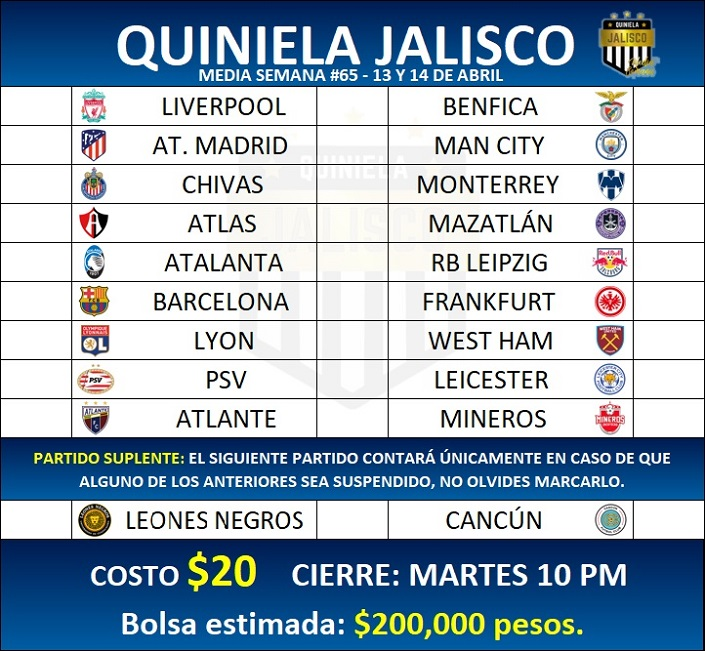
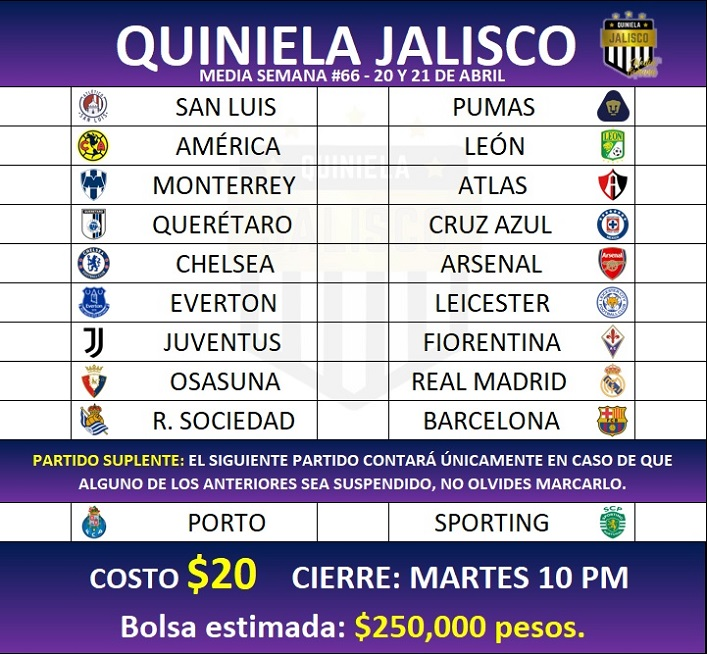
Media Semana #66

diff --git a/MediaSemana/stylesmSusp.css b/MediaSemana/stylesmSusp.css
@@ -92,8 +92,8 @@ h1{
     margin-top: 8%;
     border: solid 1px black;
     border-radius: 0 0 14px 14px;
-    background: -webkit-linear-gradient(0turn, rgb(8,26,81)  ,rgb(0,70,130) 80%);
-    background: linear-gradient(0turn, rgb(8,26,81)  ,rgb(0,70,130) 80%);
+    background: -webkit-linear-gradient(0turn, rgb(8,26,81)  ,rgb(64,38,127) 80%);
+    background: linear-gradient(0turn, rgb(8,26,81)  ,rgb(64,38,127) 80%);
     font-size: x-large;
     text-shadow: 1px 1px 5px black;
 }

diff --git a/media.html b/media.html
@@ -18,7 +18,7 @@
 </head>
 
 <body>
-    <p id='bolsa'>Bolsa estimada: <span style="color:yellow">$200,000</span> pesos</p>
+    <p id='bolsa'>Bolsa estimada: <span style="color:yellow">$250,000</span> pesos</p>
     <div class="quiniela" id="quiniela">
         <div class="aux"><h3 style="padding: 5px 7px" onclick="clean()"><ion-icon name="close-outline"></ion-icon></h3></div>
         <div class="partido">
